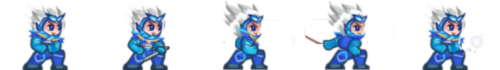
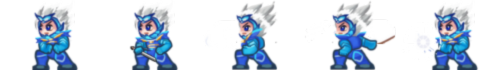
10/4
nhay hoi loi ti

diff --git a/src/entities/Player.java b/src/entities/Player.java
@@ -16,19 +16,19 @@ import static utilz.Constants.PlayerConstants.*;
 import static utilz.HelpMethods.getEntityXPosNextToWall;
 
 public class Player extends Entity{
-    private BufferedImage[] idAniIm, idAniLeft, idAniRight, idAniH,idAniAt,idAniL;
+    private BufferedImage[] idAniIm, idAniLeft, idAniRight, idAniH,idAniAt,idAniL,idAniAtL;
     private int aniTick, aniIndex, aniSpeed = 10;
     private int playerAction = IDLE;
 //    private int playerDir = -1;
-    private boolean left, right, up, down,jump=false,checkL,checkR;
+    private boolean left, right,jump,checkL,checkR;
     private boolean moving = false,attacking = false;
     private float playerSpeed = 1.5f;
     private int widthPy = 30,heightPy = 42;
     private float xDrawOffSet = 0* Game.SCALE;
     private float yDrawOffSet = 0* Game.SCALE;
     // nhảy trọng lực:
-    private float airSpeed = 1f;
-    private float gravity = 1f * Game.SCALE;
+    private float airSpeed = 0f;
+    private float gravity = 0.04f * Game.SCALE;
     private float jumpSpeed = -2.25f*Game.SCALE;
     private float fallSpeedAfterCollision = 0.5f*Game.SCALE;
     private boolean inAir = false;
@@ -44,6 +44,7 @@ public class Player extends Entity{
         loadAnimationsLeft();
         loadAnimationsRight();
         loadAnimationsAttack();
+        loadAnimationsAttackLeft();
         initHitBox(x,y,widthPy*Game.SCALE,heightPy*Game.SCALE);
     }
     public void update(){
@@ -96,8 +97,13 @@ public class Player extends Entity{
         for(int i=0;i<idAniAt.length;i++){
             idAniAt[i]= imgAt.getSubimage(i*100, 0, 100, 70);
         }
-
-
+    }
+    private void loadAnimationsAttackLeft(){
+        BufferedImage imgAt = LoadSave.getPlayerAttackLeft();
+        idAniAtL = new BufferedImage[5];
+        for(int i=0;i<idAniAtL.length;i++){
+            idAniAtL[i]= imgAt.getSubimage(i*100, 0, 100, 70);
+        }
     }
 
     public void loadlvlData(int lvlData[][]){
@@ -150,7 +156,12 @@ public class Player extends Entity{
         if(attacking){
             widthPy=60;
             playerAction=ATTACK_1;
-            idAniIm=idAniAt;
+            if(checkL&&!checkR){
+                idAniIm =idAniAtL;
+            }
+            else {
+                idAniIm = idAniAt;
+            }
         }
         else {
             widthPy = 30;
@@ -174,51 +185,40 @@ public class Player extends Entity{
             return;
         }
         float xSpeed = 0;
-        if (left && !right) {
+        if (left) {
             xSpeed = -playerSpeed;
-        } else if (!left && right) {
+        }
+        if (right) {
             xSpeed = playerSpeed;
         }
-        if(inAir){
-        updateAirPos(xSpeed);
-        if(canMoveHere(hitBox.x,hitBox.y+airSpeed,hitBox.width,hitBox.height,lvlData)){
-            hitBox.y += airSpeed;
-            airSpeed = gravity;
-            updateXPos(xSpeed);
-        }
-        else{
-            hitBox.y = getEntityYPosUnderRoofOrAboveFloor(hitBox,airSpeed);
-            if(airSpeed>0){
-                resetInAir();
+        if(!inAir){
+            if(!isEntityOnFloor(hitBox,lvlData)){
+                inAir = true;
             }
-            else {
-                airSpeed = fallSpeedAfterCollision;
-            }
-            updateXPos(xSpeed);
+            else inAir = false;
+            airSpeed =0;
         }
-    }
-    else updateGroundPos(xSpeed);
-    moving = true;
-//        if(inAir){
 
-//            if(canMoveHere(hitBox.x,hitBox.y+airSpeed,hitBox.width,hitBox.height,lvlData)){
-//                hitBox.y += airSpeed;
-//                airSpeed = gravity;
-//                updateXPos(xSpeed);
-//            }
-//            else{
-//                hitBox.y = getEntityYPosUnderRoofOrAboveFloor(hitBox,airSpeed);
-//                if(airSpeed>0){
-//                    resetInAir();
-//                }
-//                else {
-//                    airSpeed = fallSpeedAfterCollision;
-//                }
-//                updateXPos(xSpeed);
-//            }
- //       }
-//        else
-//        moving =true;
+        if(inAir){
+            if(canMoveHere(hitBox.x,hitBox.y+airSpeed,hitBox.width,hitBox.height,lvlData)){
+                hitBox.y += airSpeed;
+                airSpeed += gravity;
+                updateXPos(xSpeed);
+            }
+            else{
+                hitBox.y = getEntityYPosUnderRoofOrAboveFloor(hitBox,airSpeed);
+                System.out.println(hitBox.y);
+                if(airSpeed>0){
+                    resetInAir();
+                }
+                else {
+                    airSpeed = fallSpeedAfterCollision;
+                }
+                updateXPos(xSpeed);
+            }
+        }
+        else updateXPos(xSpeed);
+        moving =true;
     }
 
     private void jump() {
@@ -228,32 +228,7 @@ public class Player extends Entity{
         }
         jump = false;
     }
-    private void updateGroundPos(float xSpeed) {
-        moving = false;
-        if (canMoveHere(hitBox.x + xSpeed, hitBox.y, hitBox.width, hitBox.height, lvlData)) {
-            hitBox.x += xSpeed;
-            moving = true;
-        }
-    }
 
-    private void updateAirPos(float xSpeed) {
-        if (canMoveHere(hitBox.x + xSpeed, hitBox.y, hitBox.width, hitBox.height, lvlData)) {
-            hitBox.x += xSpeed;
-        } else {
-            hitBox.x = getEntityXPosNextToWall(hitBox, xSpeed);
-        }
-
-        float ySpeed = airSpeed;
-        if (canMoveHere(hitBox.x, hitBox.y + ySpeed, hitBox.width, hitBox.height, lvlData)) {
-            hitBox.y += ySpeed;
-            airSpeed += gravity;
-        } else {
-            // Nếu va chạm với mặt đất hoặc vật cản
-            airSpeed = 0; // Đặt lại vận tốc rơi
-            hitBox.y = getEntityYPosUnderRoofOrAboveFloor(hitBox, airSpeed);
-            inAir = false; // Đặt lại trạng thái nhân vật không còn trong không trung
-        }
-    }
 
     private void resetInAir() {
         inAir = false;
@@ -269,25 +244,9 @@ public class Player extends Entity{
         }
     }
 
-//    private void resetInAir() {
-//        inAir =false;
-//        airSpeed =0;
-//    }
-//
-//    private void updateXPos(float xSpeed) {
-//        if(canMoveHere(hitBox.x+xSpeed,hitBox.y,hitBox.width,hitBox.height,lvlData)){
-//            hitBox.x += xSpeed;
-//        }
-//        else {
-//            hitBox.x = getEntityXPosNextToWall(hitBox,xSpeed);
-//        }
-//    }
-
     public void resetDirBooleans(){
         left=false;
         right=false;
-        up=false;
-        down=false;
     }
 
     public int getWidthPy() {

diff --git a/src/utilz/LoadSave.java b/src/utilz/LoadSave.java
@@ -11,6 +11,7 @@ import java.io.InputStream;
 public class LoadSave {
 
     public static final String PLAYER_AT = "playerAttackRight.png";
+    public static final String PLAYER_AT_LEFT = "playerAttackLeft.png";
     public static final String PLAYER_ANI = "playerRight.png";
     public static final String PLAYER_RUNR = "pyrunright.png";
     public static final String PLAYER_RUNL = "pyrunleft.png";
@@ -38,6 +39,27 @@ public class LoadSave {
         }
         return img;
     }
+    public static BufferedImage getPlayerAttackLeft(){
+        BufferedImage img=null;
+        InputStream is = LoadSave.class.getResourceAsStream("/"+PLAYER_AT_LEFT);
+        try(is) {
+            if (is != null) {
+                img = ImageIO.read(is);
+            } else {
+                throw new IOException("Image file not found!");
+            }
+        } catch (IOException e) {
+            e.printStackTrace();
+        } finally {
+            try{
+                is.close();
+            } catch (IOException e) {
+                e.printStackTrace();
+            }
+        }
+        return img;
+    }
+
     public static BufferedImage getPlayerAni(){
         BufferedImage img=null;
         InputStream is = LoadSave.class.getResourceAsStream("/"+PLAYER_ANI);
@@ -183,16 +205,16 @@ public class LoadSave {
         int[][] sampleMap = {
                 {80, 80, 80, 80, 80, 80, 80, 80, 80, 80, 80, 80, 80, 80, 80, 80, 80, 80, 80, 80, 80, 80, 80, 80, 80, 80},
                 {80, 80, 80, 80, 80, 80, 80, 80, 80, 80, 80, 80, 80, 80, 80, 80, 80, 80, 80, 80, 80, 80, 80, 80, 80, 80},
+                {80, 80, 80, 80, 80, 80, 80, 80, 80, 80, 2, 80, 80, 80, 80, 80, 80, 80, 80, 80, 80, 80, 80, 80, 80, 80},
                 {80, 80, 80, 80, 80, 80, 80, 80, 80, 80, 80, 80, 80, 80, 80, 80, 80, 80, 80, 80, 80, 80, 80, 80, 80, 80},
-                {80, 80, 80, 80, 80, 80, 80, 80, 80, 80, 80, 80, 80, 80, 80, 80, 80, 80, 80, 80, 80, 80, 80, 80, 80, 80},
-                {80, 80, 80, 80, 80, 80, 80, 80, 80, 80, 80, 80, 80, 80, 80, 80, 80, 80, 80, 80, 80, 80, 80, 80, 80, 80},
-                {80, 80, 80, 80, 80, 80, 80, 80, 80, 80, 80, 80, 80, 80, 80, 80, 80, 80, 80, 80, 80, 80, 80, 80, 80, 80},
+                {80, 80, 80, 80, 80, 80, 80, 80, 80, 2, 80, 80, 80, 80, 80, 80, 80, 80, 80, 80, 80, 80, 80, 80, 80, 80},
+                {80, 80, 80, 80, 80, 80, 80, 2, 80, 80, 80, 80, 80, 80, 20 ,20 ,20 , 80, 80, 80, 80, 80, 80, 80, 80, 80},
                 {80, 80, 80, 80, 80, 80, 80, 80, 80, 80, 80, 80, 80, 80, 80, 80, 80, 80, 80, 80, 80, 80, 80, 80, 80, 80},
                 {80, 80, 80, 80, 80, 80, 2, 2, 2, 2, 80, 80, 80, 80, 56, 80, 80, 80, 80, 80, 80, 80, 80, 80, 80, 80},
                 {80, 80, 80, 80, 80, 80, 80, 80, 80, 80, 80, 80, 80, 80, 80, 80, 80, 80, 80, 80, 80, 80, 80, 80, 80, 80},
+                {80, 80, 80, 2, 80, 80, 80, 80, 80, 80, 80, 80, 80, 80, 80, 80, 80, 80, 80, 80, 80, 80, 80, 80, 80, 80},
                 {80, 80, 80, 80, 80, 80, 80, 80, 80, 80, 80, 80, 80, 80, 80, 80, 80, 80, 80, 80, 80, 80, 80, 80, 80, 80},
-                {80, 80, 80, 80, 80, 80, 80, 80, 80, 80, 80, 80, 80, 80, 80, 80, 80, 80, 80, 80, 80, 80, 80, 80, 80, 80},
-                {80, 80, 80, 80, 80, 80, 80, 80, 80, 80, 80, 80, 80, 80, 80, 80, 80, 80, 80, 80, 80, 80, 80, 80, 80, 80},
+                {80, 2, 80, 80, 80, 80, 80, 80, 2, 2, 2, 80, 80, 80, 80, 80, 80, 80, 80, 80, 80, 80, 80, 80, 80, 80},
                 {1, 1, 1, 1, 1, 1, 1, 1, 1, 1, 1, 1, 1, 1, 1, 1, 1, 1, 1, 1, 1, 1, 1, 1, 1, 1},
                 {1, 1, 1, 1, 1, 1, 1, 1, 1, 1, 1, 1, 1, 1, 1, 1, 1, 1, 1, 1, 1, 1, 1, 1, 1, 1}
 

diff --git a/src/utilz/HelpMethods.java b/src/utilz/HelpMethods.java
@@ -35,7 +35,7 @@ public class HelpMethods {
     public static float getEntityXPosNextToWall(Rectangle2D.Float hitBox, float xSpeed){
         int currentTile = (int) (hitBox.x/Game.TILES_SIZE);
         if(xSpeed>0){
-            int tileXPos = (int) (currentTile*Game.TILES_SIZE);
+            int tileXPos =  currentTile*Game.TILES_SIZE;
             int xOffSet = (int) (Game.TILES_SIZE-hitBox.width);
             return tileXPos+xOffSet-1;
         }
@@ -44,14 +44,25 @@ public class HelpMethods {
         }
     }
     public static float getEntityYPosUnderRoofOrAboveFloor(Rectangle2D.Float hitBox, float airSpeed){
-        int currentTile = (int) (hitBox.x/Game.TILES_SIZE);
-        if(airSpeed>0){
-            int tileYPos = (int) (currentTile*Game.TILES_SIZE);
-            int yOffSet = (int) (Game.TILES_SIZE-hitBox.height);
-            return tileYPos+yOffSet-1;
+        int currentTile = (int) ((hitBox.y)/Game.TILES_SIZE);
+        if(airSpeed > 0){
+            int tileYPos = currentTile * Game.TILES_SIZE;
+            int yOffSet = (int) (Game.TILES_SIZE - hitBox.height);
+            return tileYPos + yOffSet-1+Game.TILES_DEFAULT_SIZE;
         }
         else {
-            return currentTile*Game.TILES_SIZE;
+            return currentTile * Game.TILES_SIZE;
         }
+    }
+    public static boolean isEntityOnFloor(Rectangle2D.Float hitBox, int [][] lvlData){
+        float leftTile = hitBox.x / Game.TILES_SIZE;
+        float rightTile = (hitBox.x + hitBox.width) / Game.TILES_SIZE;
+        int bottomTile = (int) ((hitBox.y + hitBox.height) / Game.TILES_SIZE);
+        for (int i = (int) leftTile; i <= rightTile; i++) {
+            if (isSolid(i, bottomTile, lvlData)) {
+                return true;
+            }
+        }
+        return false;
     }
 }

diff --git a/src/Main/Game.java b/src/Main/Game.java
@@ -36,7 +36,7 @@ public class Game implements Runnable{
     private void initClasses() {
         backGround1 = new Background();
         levelManager = new LevelManager(this);
-        player=new Player(32,32*3,30,42);
+        player=new Player(32,32,30,42);
         player.loadlvlData(levelManager.getCurrenLevel().getlvlData());
     }
 
